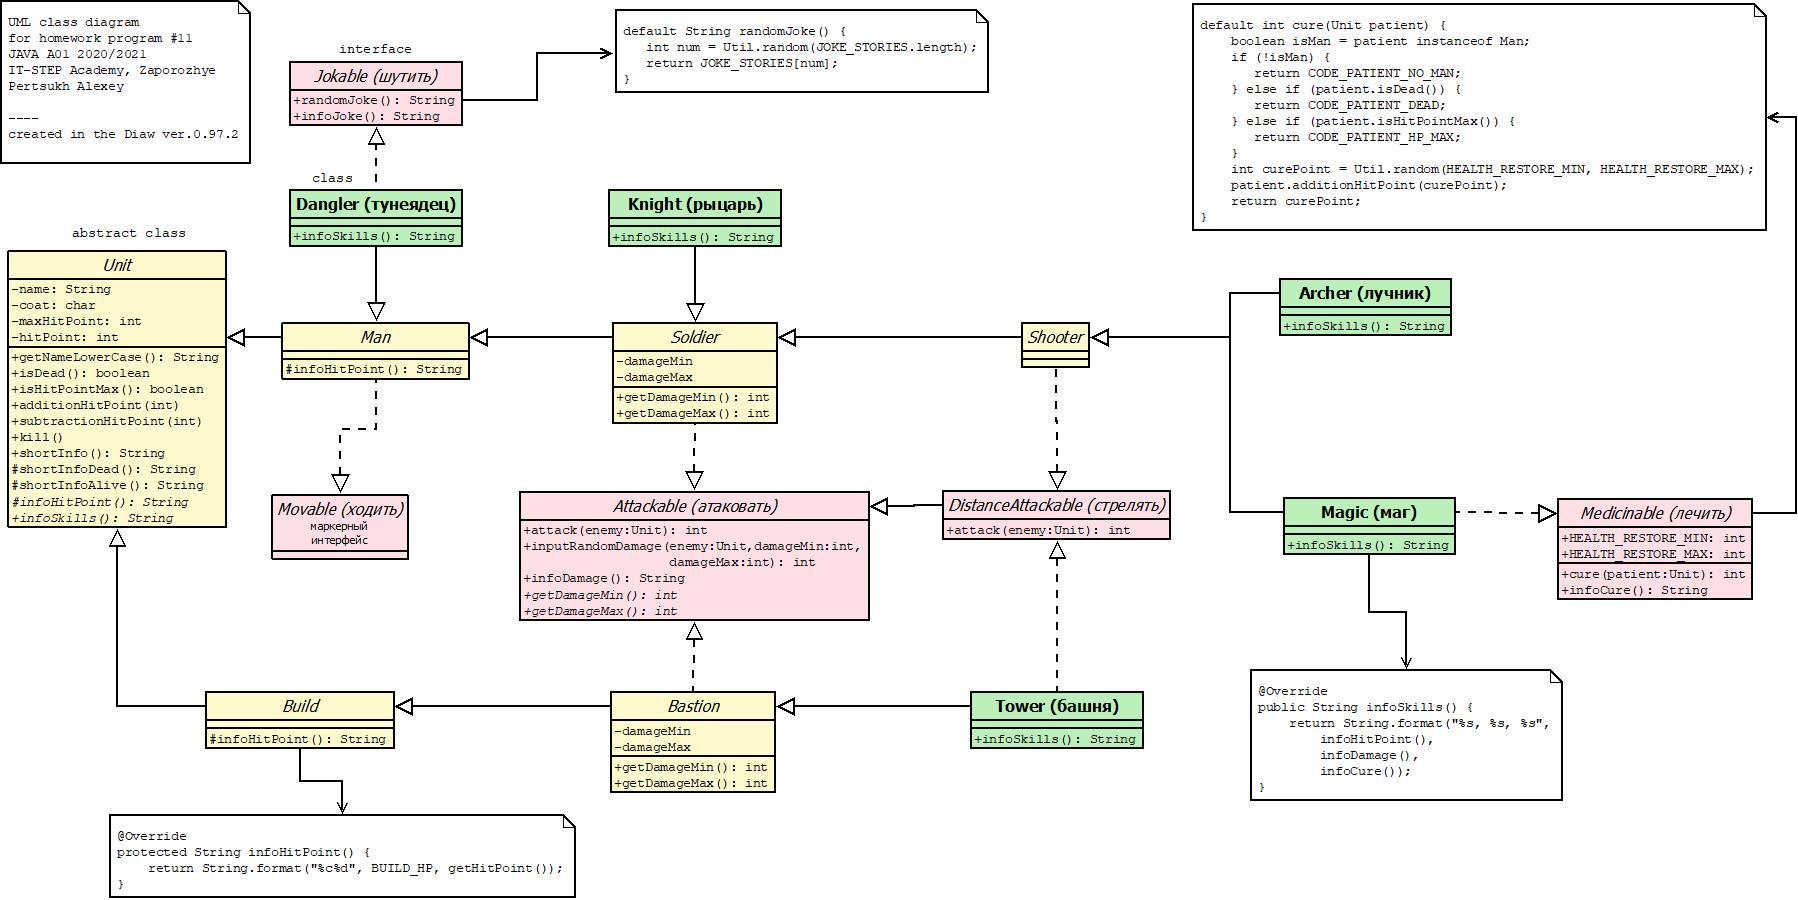
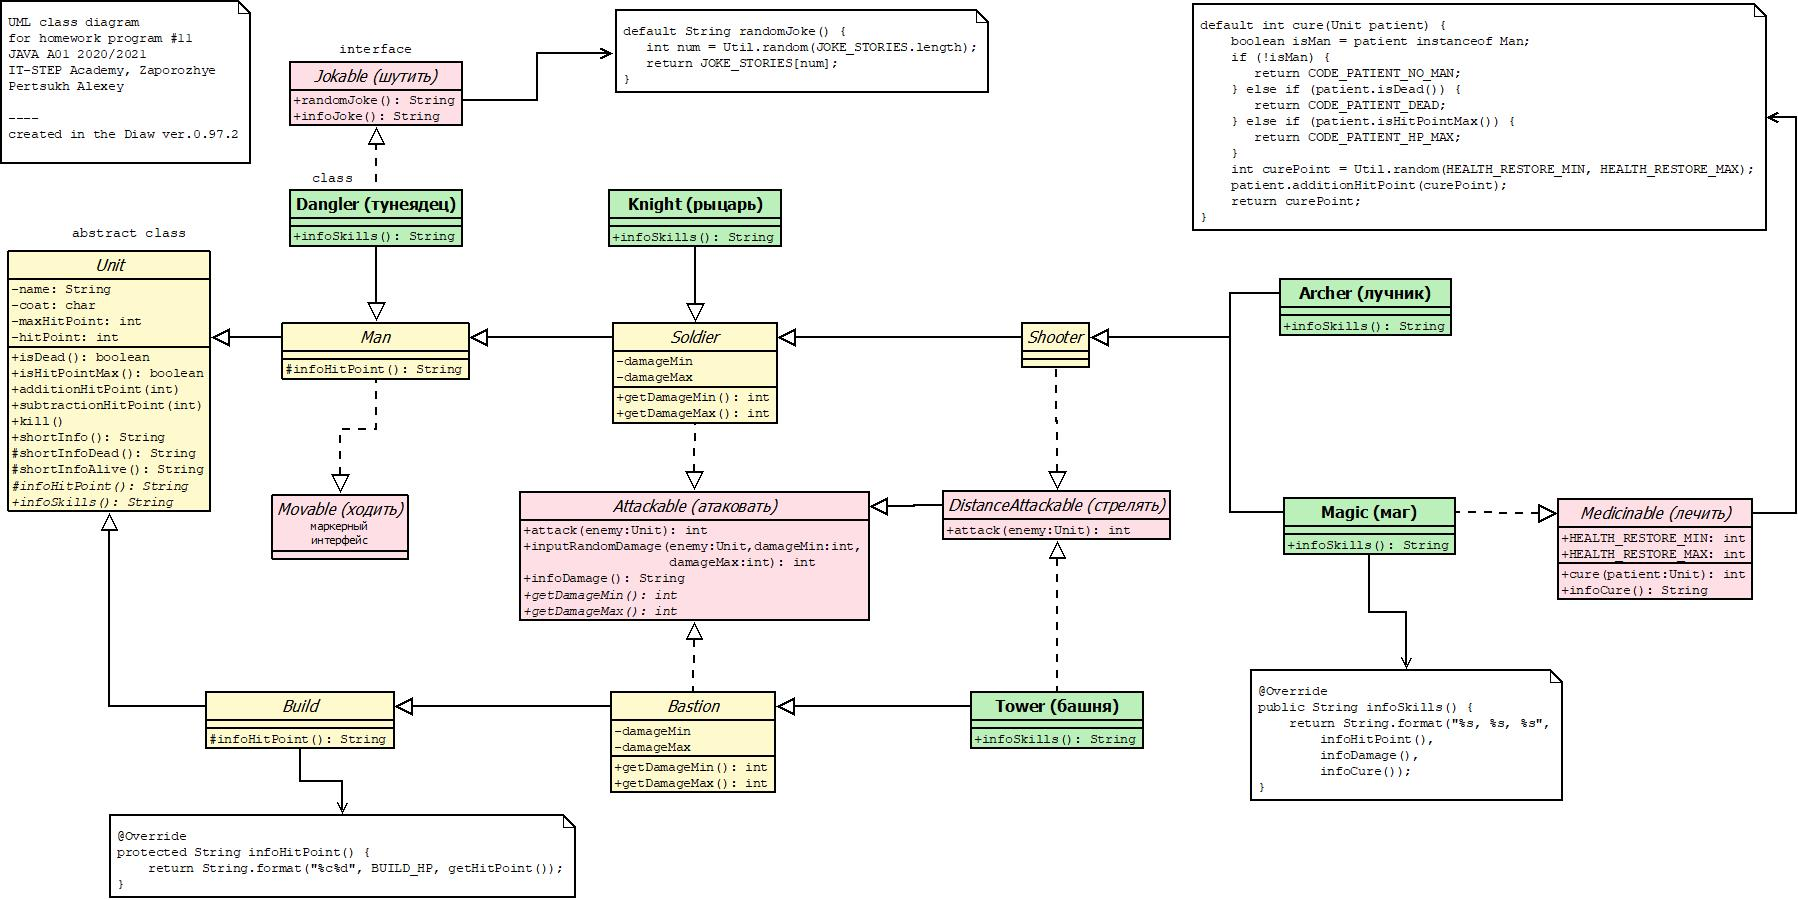
delete redundant method

Changed region(s): [[0.0, 0.28, 0.1557, 0.5911]]

diff --git a/src/com/game/Game.java b/src/com/game/Game.java
@@ -17,7 +17,7 @@ public class Game {
 
     public static final int MAX_ROUND_NO_ATTACK = 4;     //максимальное количество ходов без атак
 
-    private static final String VERSION = "5.0";
+    private static final String VERSION = "230108";
     private static final String COPYRIGHT = "JAVA A01 \"ШАГ\", Запорожье 2021";
     private static final String AUTHOR = "Перцух Алексей";
 
@@ -251,7 +251,7 @@ public class Game {
 
     //ввод команды
     private Command readCommand() {
-        System.out.printf("[%s] %s, введите команду: ", currentPlayer.getName(), currentPlayer.getUnitCurrent().getNameLowerCase());
+        System.out.printf("[%s] %s, введите команду: ", currentPlayer.getName(), currentPlayer.getUnitCurrent().getName().toLowerCase());
         String text = scanner.next();
         return new Command(text);
     }
@@ -328,7 +328,7 @@ public class Game {
     private boolean attack(int numEnemy) {
         Unit unit = currentPlayer.getUnitCurrent();
         if (!isAttackable(unit)) {
-            System.out.printf("[%s] %s не умеет атаковать \n", currentPlayer.getName(), unit.getNameLowerCase());
+            System.out.printf("[%s] %s не умеет атаковать \n", currentPlayer.getName(), unit.getName().toLowerCase());
             return false;
         }
 
@@ -347,8 +347,8 @@ public class Game {
         cntNoAttack = 0; //сбрасываем счетчик ходов без атак
 
         System.out.printf("[%s] %s атакует: враг %s(%d) получил урон %d ед. \n", currentPlayer.getName(),
-                unit.getNameLowerCase(),
-                enemy.getNameLowerCase(),
+                unit.getName().toLowerCase(),
+                enemy.getName().toLowerCase(),
                 numEnemy + 1,
                 attackResult);
 
@@ -358,7 +358,7 @@ public class Game {
     private void printMessageAttackFail(Unit unit, int codeMessage) {
         switch (codeMessage) {
             case Attackable.CODE_TOO_FAR:
-                System.out.printf("[%s] %s атакует только в ближнем бою, подойдите к врагу вплотную \n", currentPlayer.getName(), unit.getNameLowerCase());
+                System.out.printf("[%s] %s атакует только в ближнем бою, подойдите к врагу вплотную \n", currentPlayer.getName(), unit.getName().toLowerCase());
                 break;
             case Attackable.CODE_ENEMY_DEAD:
                 System.out.printf("[%s] нельзя атаковать убитого \n", currentPlayer.getName());
@@ -389,7 +389,7 @@ public class Game {
     public boolean cure(int numPatient) {
         Unit unit = currentPlayer.getUnitCurrent();
         if (!isMedicinable(unit)) {
-            System.out.printf("[%s] %s не умеет лечить \n", currentPlayer.getName(), unit.getNameLowerCase());
+            System.out.printf("[%s] %s не умеет лечить \n", currentPlayer.getName(), unit.getName().toLowerCase());
             return false;
         }
 
@@ -406,8 +406,8 @@ public class Game {
         }
 
         System.out.printf("[%s] %s подлечил раненого, %s(%d) восстановил %d ед. здоровья   \n", currentPlayer.getName(),
-                unit.getNameLowerCase(),
-                patient.getNameLowerCase(),
+                unit.getName().toLowerCase(),
+                patient.getName().toLowerCase(),
                 numPatient + 1,
                 cureResult);
 
@@ -424,12 +424,12 @@ public class Game {
 
             case Medicinable.CODE_PATIENT_HP_MAX:
                 System.out.printf("[%s] %s, %s полностью здоров    \n", currentPlayer.getName(),
-                        errMessage, patient.getNameLowerCase());
+                        errMessage, patient.getName().toLowerCase());
                 break;
 
             case Medicinable.CODE_PATIENT_NO_MAN:
                 System.out.printf("[%s] %s, %s не является живым существом   \n", currentPlayer.getName(),
-                        errMessage, patient.getNameLowerCase());
+                        errMessage, patient.getName().toLowerCase());
                 break;
 
 //            case Medicinable.CODE_IS_THIS:
@@ -451,12 +451,12 @@ public class Game {
         Unit unit = currentPlayer.getUnitCurrent();
 
         if (!isJokable(unit)) {
-            System.out.printf("[%s] %s не умеет шутить \n", currentPlayer.getName(), unit.getNameLowerCase());
+            System.out.printf("[%s] %s не умеет шутить \n", currentPlayer.getName(), unit.getName().toLowerCase());
             return false;
         }
 
         String story = ((Jokable) unit).randomJoke();
-        System.out.printf("[%s] %s шутит: ", currentPlayer.getName(), unit.getNameLowerCase());
+        System.out.printf("[%s] %s шутит: ", currentPlayer.getName(), unit.getName().toLowerCase());
         Color.printlnColor(story, COLOR_HELP);
 
         return true;
@@ -506,7 +506,7 @@ public class Game {
     private boolean moveUnit(int direction) {
         Unit unit = currentPlayer.getUnitCurrent();
         if (!isMovable(unit)) {
-            System.out.printf("[%s] %s не умеет ходить \n", currentPlayer.getName(), unit.getNameLowerCase());
+            System.out.printf("[%s] %s не умеет ходить \n", currentPlayer.getName(), unit.getName().toLowerCase());
             return false;
         }
         int newPosition = board.getPosition(unit) + direction;

diff --git a/src/com/units/Unit.java b/src/com/units/Unit.java
@@ -18,13 +18,8 @@ public abstract class Unit {
         this.maxHitPoint = this.hitPoint;
     }
 
-
     public String getName() {
         return name;
-    }
-
-    public String getNameLowerCase() {
-        return name.toLowerCase();
     }
 
     public char getIcon() {

diff --git a/src/com/game/Player.java b/src/com/game/Player.java
@@ -102,10 +102,6 @@ public class Player {
         return name;
     }
 
-    public int getUnitsSize() {
-        return units.length;
-    }
-
     public Unit getUnit(int num) {
         if (num < 0 || num >= units.length) {
             return null;
